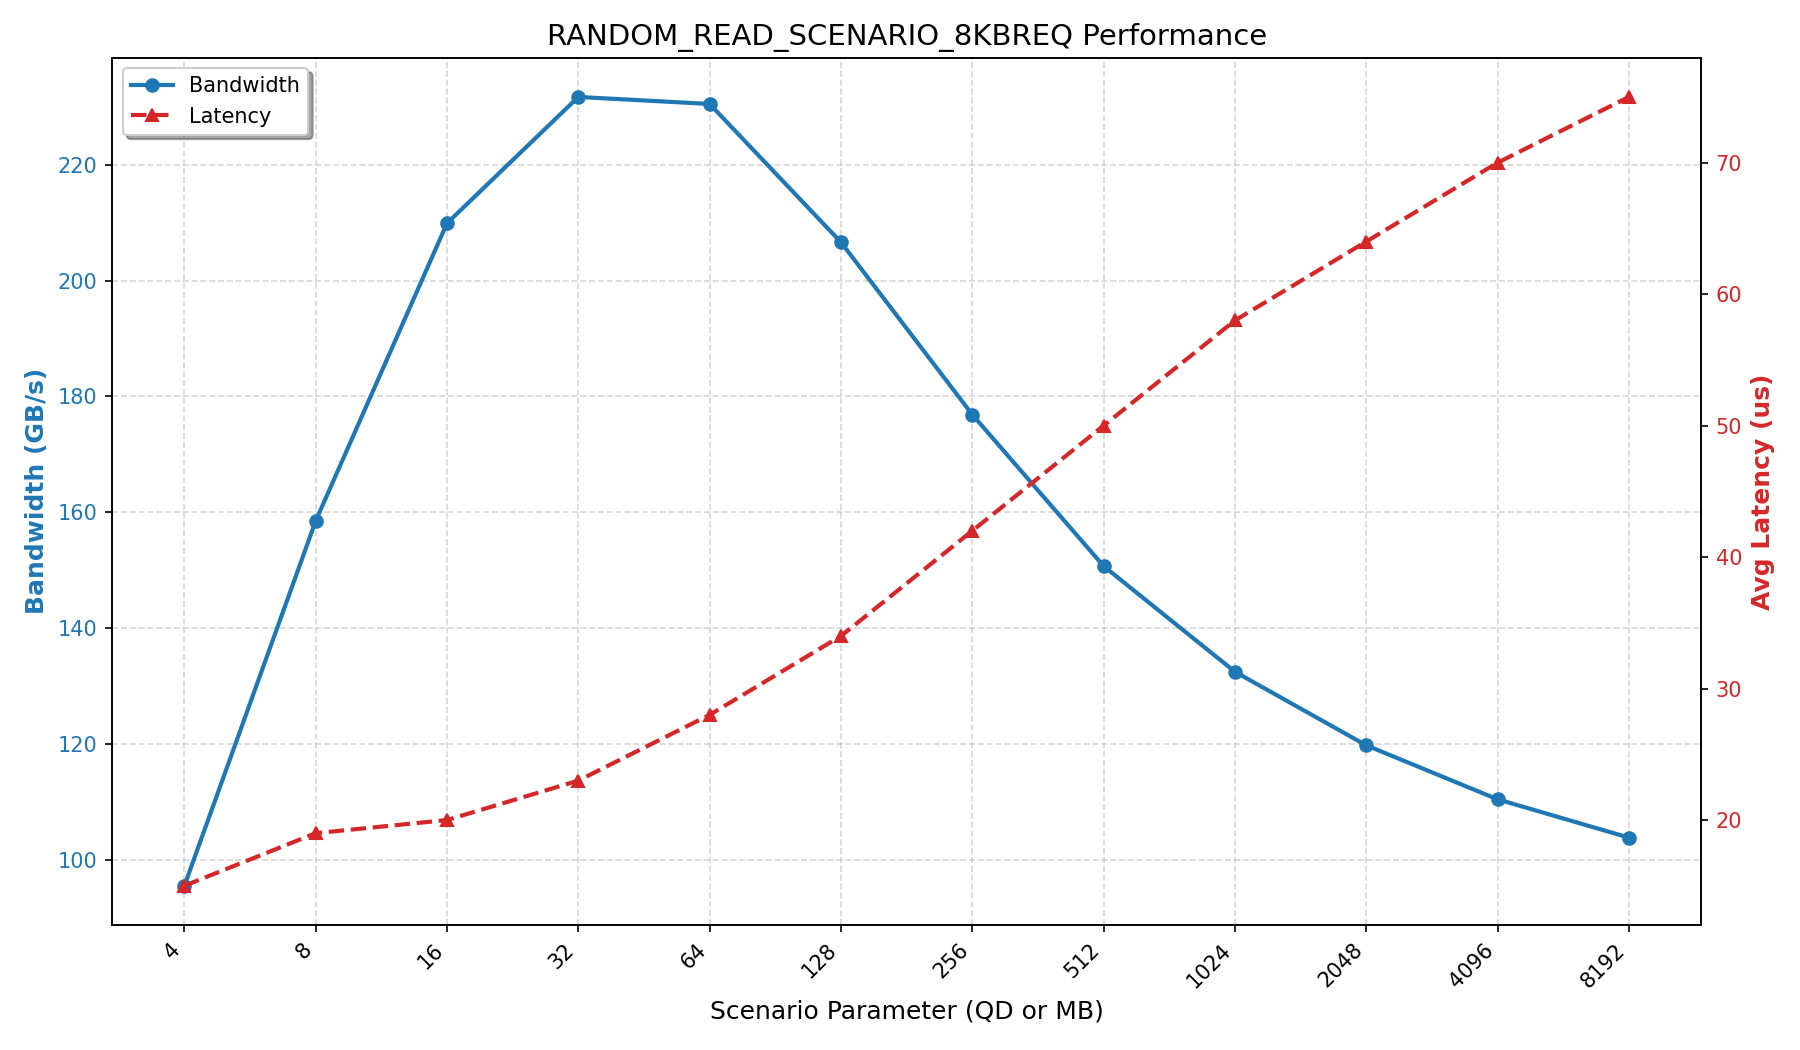
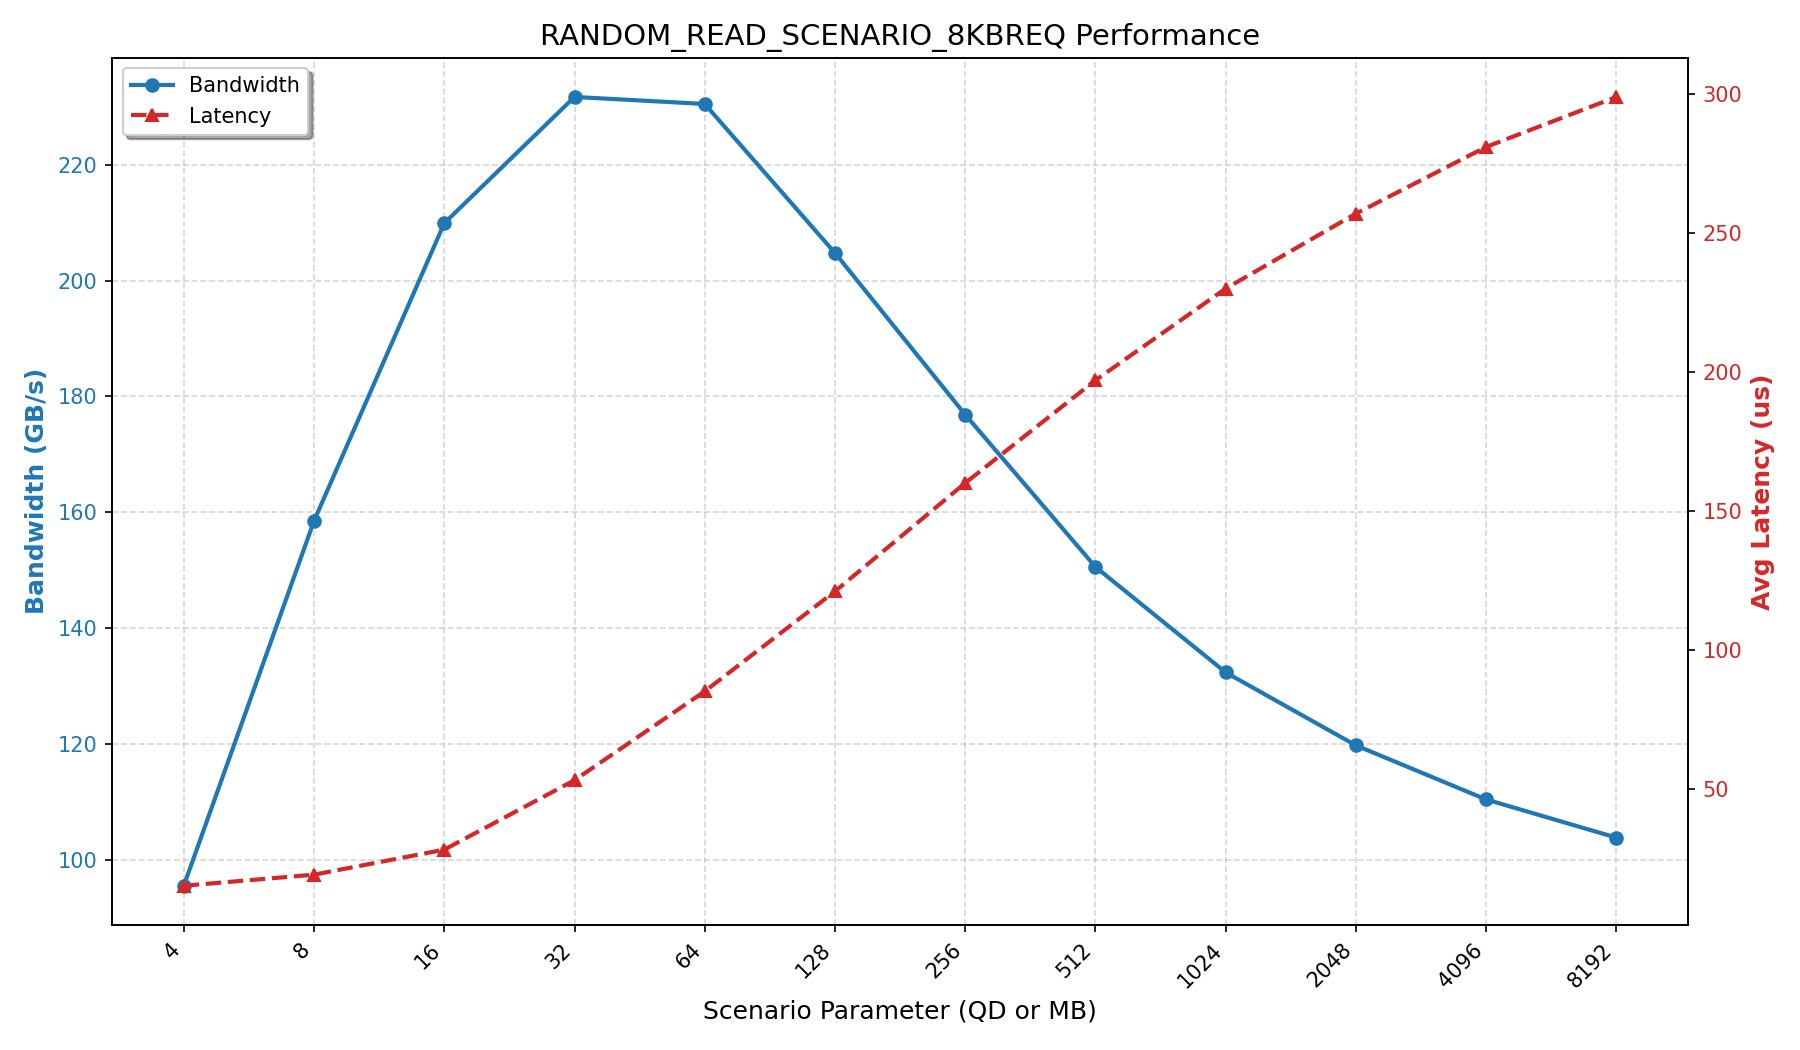
correct typos

diff --git a/auto_simulate.py b/auto_simulate.py
@@ -318,10 +318,10 @@ if __name__ == "__main__":
         exit(1)
 
     STREAMING_READ_SCENARIO_256KBREQ = {
-        f"seq_read_total_size_{2**(size_log-10)}MB_128kBreq": {
+        f"seq_read_total_size_{2**(size_log-10)}MB_256kBreq": {
             "Read_Percentage": 100,
-            "Average_Request_Size": 64,  # 1sector = 512B
-            "Average_No_of_Reqs_in_Queue": min(int(2**(size_log-7)), 512),
+            "Average_Request_Size": 512,  # 1sector = 512B
+            "Average_No_of_Reqs_in_Queue": min(int(2**(size_log-8)), 64),
             "Total_Requests_To_Generate": 2**size_log//128,
             "Address_Distribution": "STREAMING",
 
@@ -334,7 +334,7 @@ if __name__ == "__main__":
         f"seq_write_total_size_{2**(size_log-10)}MB_128kBreq": {
             "Read_Percentage": 0,
             "Average_Request_Size": 512,  # 1sector = 512B
-            "Average_No_of_Reqs_in_Queue": min(int(int(2**(size_log-7))), 512),
+            "Average_No_of_Reqs_in_Queue": min(int(int(2**(size_log-8))), 512),
             "Total_Requests_To_Generate": 2**size_log//256,
             "Address_Distribution": "STREAMING",
         }
@@ -354,12 +354,12 @@ if __name__ == "__main__":
         for size_log in range(12, 24)
     }
 
-    RANDOM_READ_SCENARIO_128KBREQ = {
-        f"rand_read_total_size_{2**(size_log-10)}MB_128kBreq": {
+    RANDOM_READ_SCENARIO_256KBREQ = {
+        f"rand_read_total_size_{2**(size_log-10)}MB_256kBreq": {
             "Read_Percentage": 100,
-            "Average_Request_Size": 256,  # 1sector = 512B
-            "Average_No_of_Reqs_in_Queue": min(int(2**(size_log-7)), 512),
-            "Total_Requests_To_Generate": 2**size_log//128,
+            "Average_Request_Size": 512,  # 1sector = 512B
+            "Average_No_of_Reqs_in_Queue": min(int(2**(size_log-8)), 64),
+            "Total_Requests_To_Generate": 2**size_log//256,
             "Address_Distribution": "RANDOM_UNIFORM",
         }
 
@@ -370,7 +370,7 @@ if __name__ == "__main__":
         f"rand_read_total_size_{2**(size_log-10)}MB_8kBreq": {
             "Read_Percentage": 100,
             "Average_Request_Size": 16,  # 1sector = 512B
-            "Average_No_of_Reqs_in_Queue": min(int(2**(size_log-3)), 1024),
+            "Average_No_of_Reqs_in_Queue": min(int(2**(size_log-3)), 64*64),
             "Total_Requests_To_Generate": 2**size_log//8,
             "Address_Distribution": "RANDOM_UNIFORM", 
         }
@@ -420,7 +420,7 @@ if __name__ == "__main__":
 
     scenarios_to_run = [
         ("STREAMING_READ_SCAN_QD", STREAMING_READ_SCENARIO_SCAN_QD),
-        ("RANDOM_READ_SCENARIO_128KBREQ", RANDOM_READ_SCENARIO_128KBREQ),
+        ("RANDOM_READ_SCENARIO_256KBREQ", RANDOM_READ_SCENARIO_256KBREQ),
         ("RANDOM_READ_SCENARIO_8KBREQ", RANDOM_READ_SCENARIO_8KBREQ),
         ("STREAMING_READ_SCENARIO_256KBREQ",STREAMING_READ_SCENARIO_256KBREQ)
     ]
